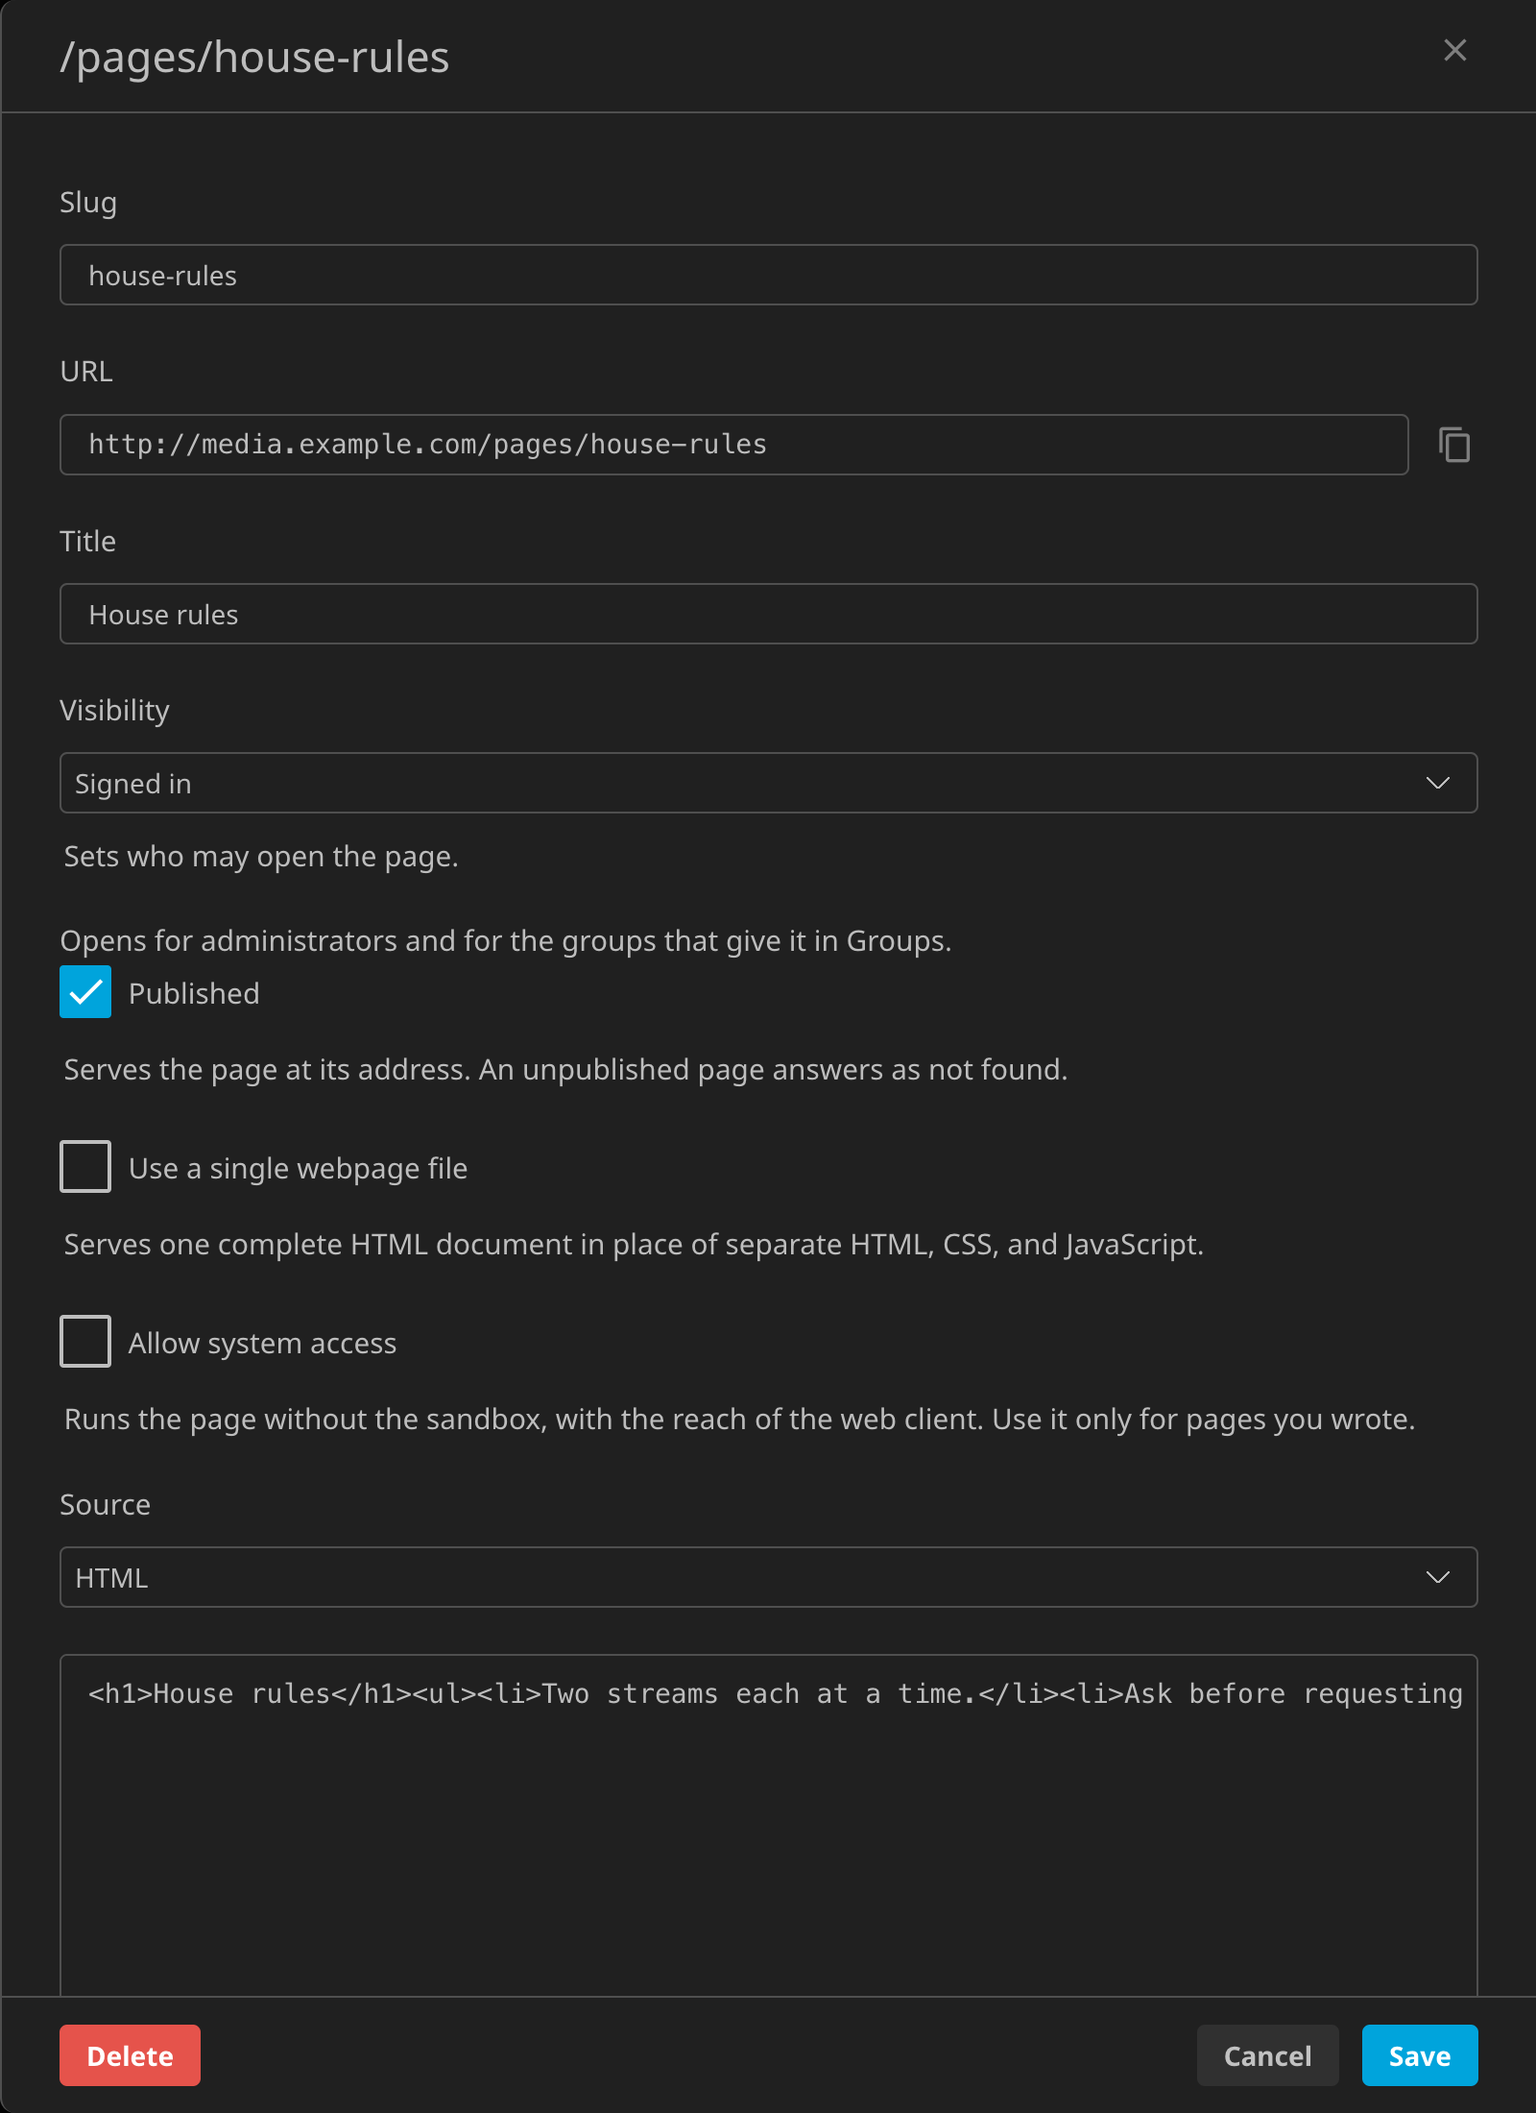
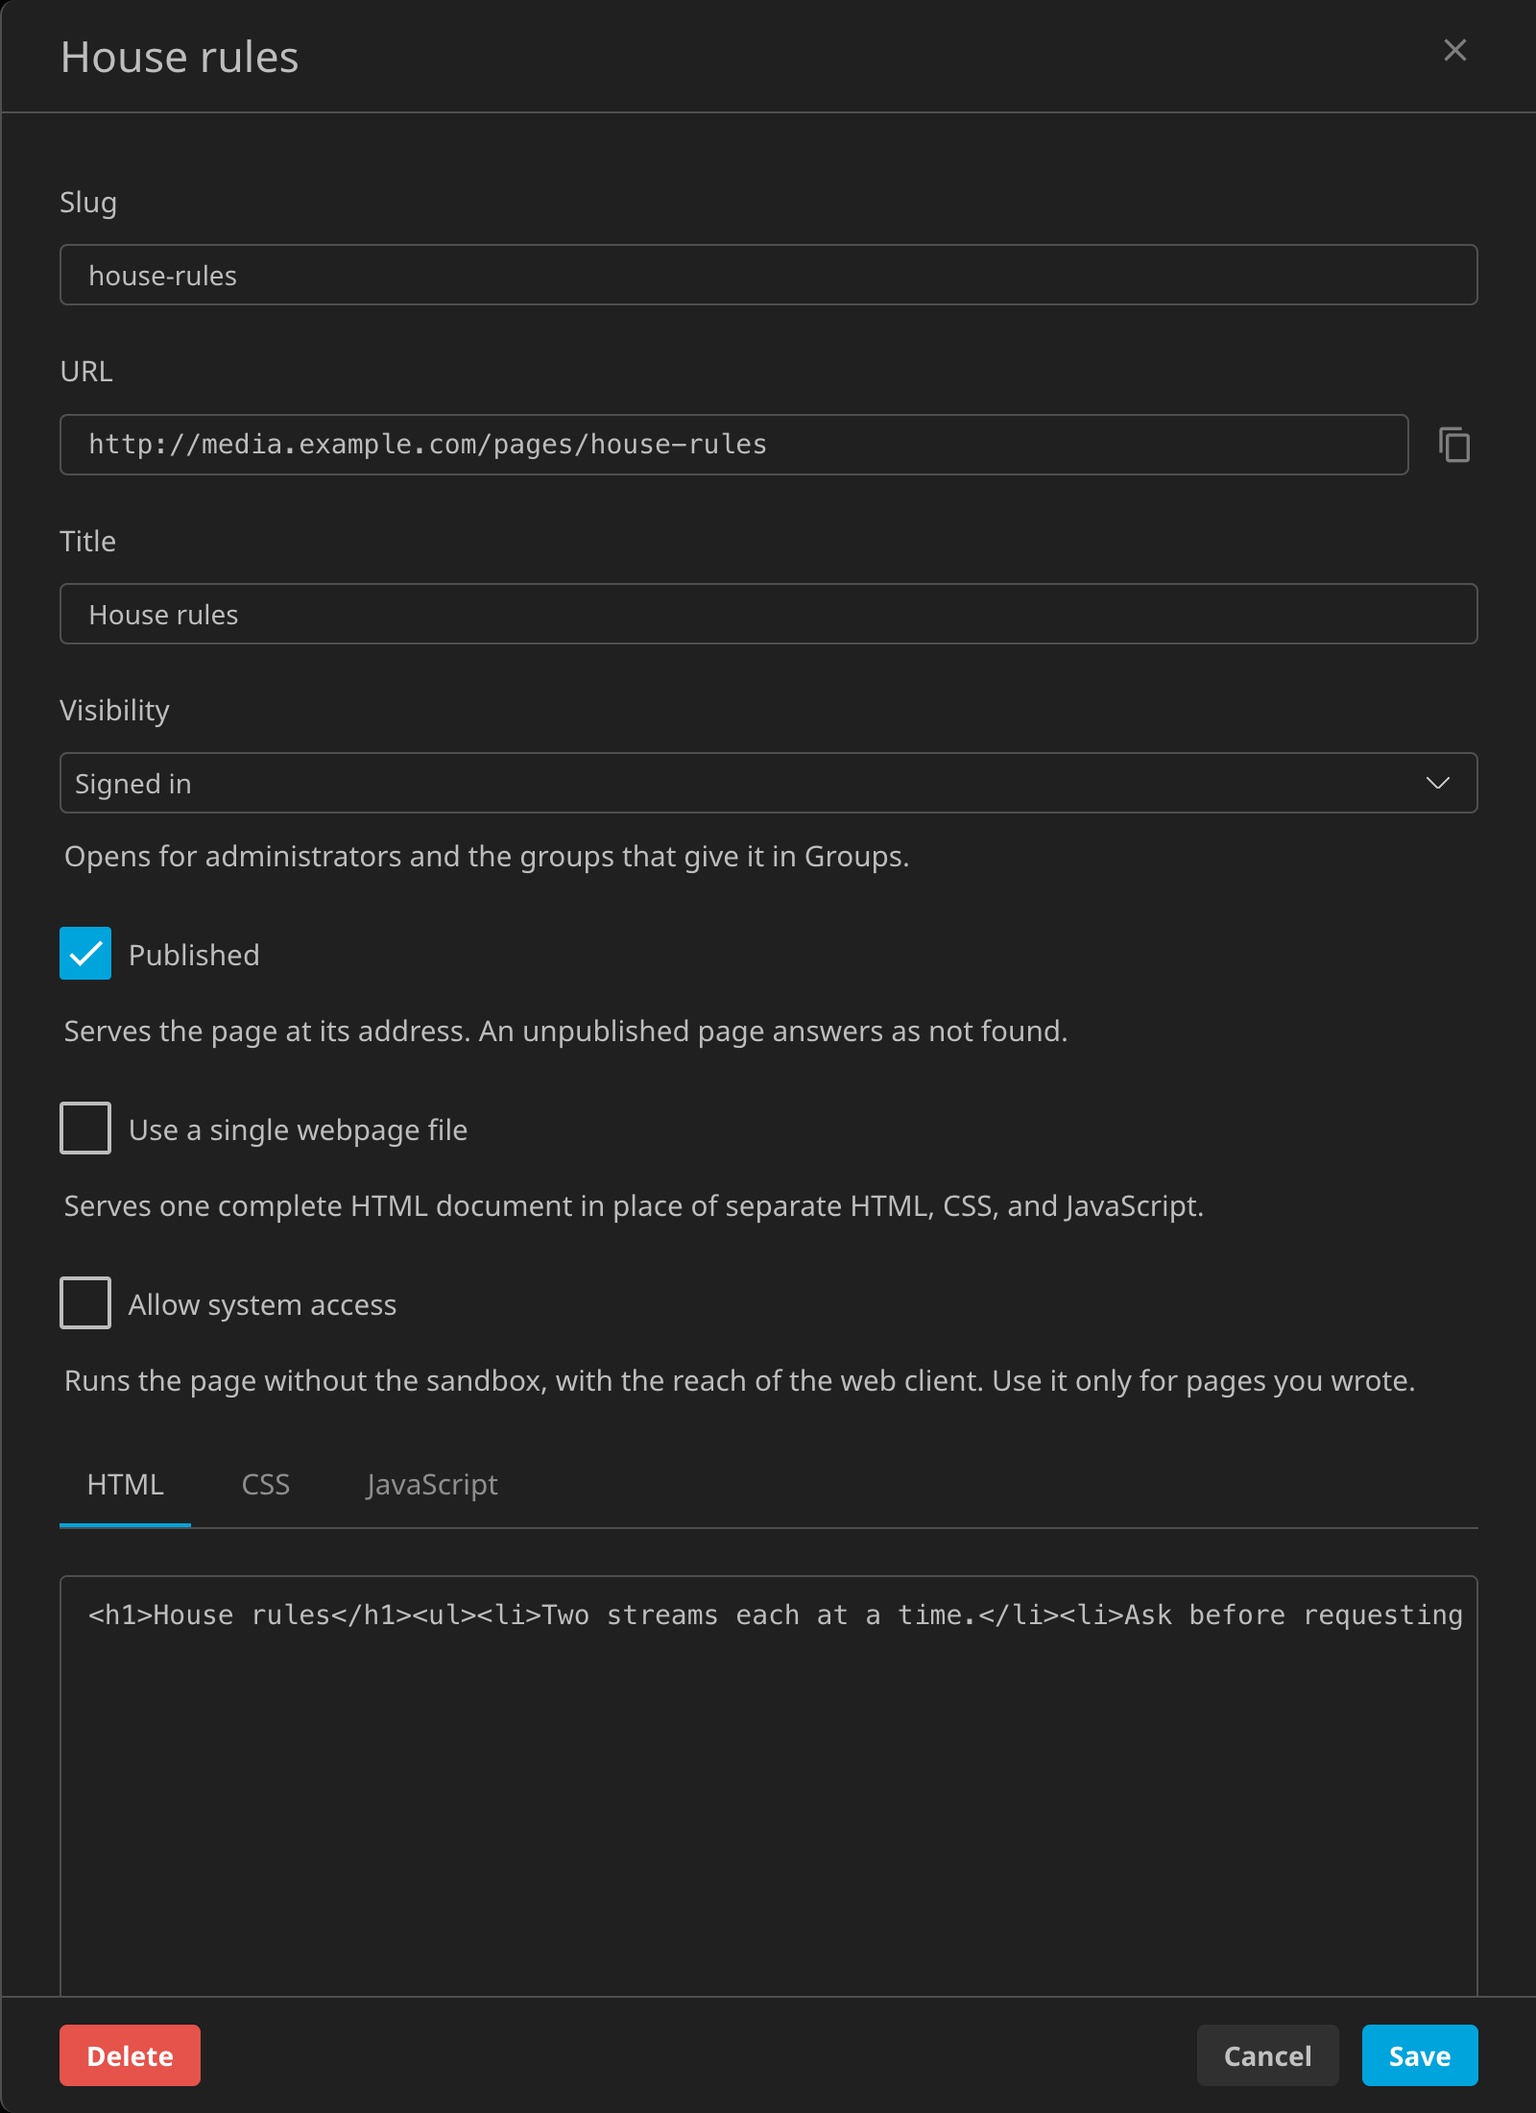
pages tabs, title first and source tabs

diff --git a/Jellyfin.Plugin.Necto/Web/necto_pages.js b/Jellyfin.Plugin.Necto/Web/necto_pages.js
@@ -191,7 +191,9 @@ export function pageItems(pages, t) {
         var tags = [{ label: tierLabel(p.Visibility, t), color: normalizeVisibility(p.Visibility) === 'Anonymous' ? 'green' : (normalizeVisibility(p.Visibility) === 'User' ? 'blue' : 'purple') }];
         if (p.Enabled === false) tags.push({ label: t.tr('PagesStatusUnpublished'), color: 'gray' });
         if (p.Unsandboxed || (p.ApiRoutes || []).length) tags.push({ label: t.tr('PagesTagSystemAccess'), color: 'orange' });
-        return { id: String(index), index: index, title: '/pages/' + (p.Slug || ''), secondary: p.Title || '', tags: tags };
+        var address = '/pages/' + (p.Slug || '');
+        var title = (p.Title || '').trim();
+        return { id: String(index), index: index, title: title || address, secondary: title ? address : '', tags: tags };
     });
 }
 
@@ -427,7 +429,7 @@ export function createPageEditor(page, shared) {
     var visibility = fieldRow('select', t.tr('PagesLabelVisibility'), { 'data-field': 'Visibility' }, t.tr('PagesVisibilityHelp'));
     tierOptions(visibility.control, t);
     visibility.control.value = normalizeVisibility(draft.Visibility);
-    var groupsNote = h('div', { class: 'stolon-info', 'data-role': 'groups-note', text: t.tr('PagesGroupsNote') });
+    var visibilityHelp = visibility.row.querySelector('.fieldDescription');
     var published = checkRow(t.tr('PagesLabelPublished'), t.tr('PagesPublishedHelp'), 'Enabled');
     published.control.checked = draft.Enabled !== false;
     var singleFile = checkRow(t.tr('PagesLabelSingleFile'), t.tr('PagesSingleFileHelp'), 'SingleFile');
@@ -458,16 +460,32 @@ export function createPageEditor(page, shared) {
         routes.element
     ]);
 
-    var source = fieldRow('select', t.tr('LabelSource'), { 'data-field': 'Source' });
-    [['html', 'HTML'], ['css', 'CSS'], ['js', 'JavaScript']].forEach(function (o) {
-        source.control.appendChild(h('option', { value: o[0], text: o[1] }));
-    });
     var code = h('textarea', { class: 'stolon-code', spellcheck: 'false', 'data-field': 'Code', 'aria-label': t.tr('PagesLabelPageSource'), rows: '16' });
     var hint = h('div', { class: 'fieldDescription', 'data-role': 'hint' });
     var codeRow = h('div', { class: 'inputContainer' }, [code, hint]);
+    // The source box moves into whichever of HTML, CSS, and JavaScript is open, and stands alone for a single file.
+    var source = nectoModule.createSubTabs({
+        label: t.tr('PagesLabelPageSource'),
+        tabs: [{ id: 'html', label: 'HTML' }, { id: 'css', label: 'CSS' }, { id: 'js', label: 'JavaScript' }],
+        onChange: function (id) {
+            flushSource();
+            currentPane = id;
+            placeSource();
+            loadSource();
+        }
+    });
+    source.element.setAttribute('data-role', 'source-tabs');
+    var codeHolder = h('div', { 'data-role': 'single-source' });
 
-    [slug.row, urlRow, title.row, visibility.row, groupsNote, published.row, singleFile.row, system.row, routesRow, source.row, codeRow]
+    [slug.row, urlRow, title.row, visibility.row, published.row, singleFile.row, system.row, routesRow, source.element, codeHolder]
         .forEach(function (node) { root.appendChild(node); });
+
+    // placeSource
+    // Puts the source box under the open source tab, or on its own for a single file.
+    function placeSource() {
+        var holder = single ? codeHolder : source.getPanel(currentPane);
+        if (holder && codeRow.parentNode !== holder) holder.appendChild(codeRow);
+    }
 
     // field
     // Names the page field the source box shows.
@@ -496,14 +514,16 @@ export function createPageEditor(page, shared) {
     }
 
     // reflect
-    // Shows the address, the groups note, the routes, and the source picker for the editor's choices.
+    // Shows the address, the Visibility help, the routes, and the source tabs for the editor's choices.
     function reflect() {
         var s = slugify(slug.control.value);
         url.setValue(s ? serverOrigin() + '/pages/' + s : '');
         setHidden(urlRow, !s);
-        setHidden(groupsNote, visibility.control.value !== 'User');
+        visibilityHelp.textContent = t.tr(visibility.control.value === 'User' ? 'PagesGroupsNote' : 'PagesVisibilityHelp');
         setHidden(routesRow, !system.control.checked);
-        setHidden(source.row, single);
+        setHidden(source.element, single);
+        setHidden(codeHolder, !single);
+        placeSource();
     }
 
     slug.control.addEventListener('input', reflect);
@@ -514,11 +534,6 @@ export function createPageEditor(page, shared) {
         single = singleFile.control.checked;
         loadSource();
         reflect();
-    });
-    source.control.addEventListener('change', function () {
-        flushSource();
-        currentPane = source.control.value;
-        loadSource();
     });
     loadSource();
     reflect();
@@ -540,7 +555,7 @@ export function createPageEditor(page, shared) {
             return out;
         },
         setStatus: function (message, isError) { shared.setStatus(status, message, !!isError); },
-        destroy: function () { routes.destroy(); url.destroy(); }
+        destroy: function () { routes.destroy(); url.destroy(); source.destroy(); }
     };
 }
 
@@ -596,7 +611,7 @@ export function createStoreEditor(store, count, shared) {
     custom.control.value = preset ? '' : days;
     var notify = checkRow(t.tr('PagesLabelNotifyAdmins'), t.tr('PagesNotifyHelp'), 'NotifyOnWrite');
     notify.control.checked = !!draft.NotifyOnWrite;
-    var meter = nectoModule.createUsageMeter({ label: t.tr('PagesCardRecords'), usedText: t.tr('PagesUsageMeter') });
+    var meter = nectoModule.createUsageMeter({ label: t.tr('LabelRecords'), usedText: t.tr('PagesUsageMeter') });
     var meterRow = h('div', { class: 'inputContainer', 'data-role': 'usage' }, [meter.element]);
 
     [name.row, urlRow, enabled.row, read.row, scope.row, write.row, anonWarn, scopeWarn, editOwn.row, limit.row, retention.row, custom.row, notify.row, meterRow]
@@ -853,7 +868,7 @@ export default function (view) {
         var c = storeCounts(settings.Stores, counts);
         shared.renderCards(panel.querySelector('[data-role="store-counts"]'), [
             { count: c.stores, label: t.tr('PagesTabStores'), color: 'blue' },
-            { count: c.records, label: t.tr('PagesCardRecords'), color: 'green' },
+            { count: c.records, label: t.tr('LabelRecords'), color: 'green' },
             { count: c.open, label: t.tr('PagesCardOpenToWrites'), color: c.open > 0 ? 'orange' : 'gray' }
         ]);
         var items = storeItems(settings.Stores, counts, t);
@@ -883,7 +898,7 @@ export default function (view) {
         var original = isNew ? newPage() : settings.Pages[index];
         var editor = createPageEditor(original, shared);
         nectoModule.openEditorSidecar({
-            title: isNew ? t.tr('PagesTitleNewPage') : '/pages/' + (original.Slug || ''),
+            title: isNew ? t.tr('PagesTitleNewPage') : ((original.Title || '').trim() || '/pages/' + (original.Slug || '')),
             body: editor.element,
             page: page,
             isNew: isNew,
@@ -1067,14 +1082,12 @@ export default function (view) {
                 h('span', { class: 'material-icons', 'aria-hidden': 'true', text: 'add' }), h('span', { text: t.tr('PagesButtonAddPage') })
             ]);
             addPage.addEventListener('click', function () { openPage(-1); });
-            [pagesIntro, h('div', { class: 'stolon-cards', 'data-role': 'page-counts' }), h('div', { 'data-role': 'page-list' }), h('div', { class: 'stolon-card-list-actions' }, [addPage])]
+            [pagesIntro, h('div', { class: 'stolon-cards stolon-even', 'data-role': 'page-counts' }), h('div', { 'data-role': 'page-list' }), h('div', { class: 'stolon-card-list-actions' }, [addPage])]
                 .forEach(function (n) { panel.appendChild(n); });
             drawPages();
         } else if (tab.id === 'assets') {
             var assetsIntro = h('div', { class: 'fieldDescription' });
             fillWithCode(assetsIntro, t.tr('PagesAssetsIntro'), ['asset/logo.png']);
-            var assetsInfo = h('div', { class: 'stolon-info' });
-            fillWithCode(assetsInfo, t.tr('PagesAssetsVisibilityInfo'), ['/pages/asset/{name}']);
             var refused = '';
             picker = nectoModule.createFilePicker({
                 accept: 'image/*',
@@ -1094,17 +1107,16 @@ export default function (view) {
                     setTimeout(function () { refused = ''; }, 0);
                 }
             });
-            [assetsIntro, assetsInfo, h('div', { class: 'stolon-cards', 'data-role': 'asset-counts' }), picker.element, h('div', { class: 'stolon-asset-list', 'data-role': 'asset-list' })]
+            [assetsIntro, h('div', { class: 'stolon-cards stolon-even', 'data-role': 'asset-counts' }), h('div', { class: 'stolon-asset-list', 'data-role': 'asset-list' }), picker.element]
                 .forEach(function (n) { panel.appendChild(n); });
             drawAssets();
         } else if (tab.id === 'stores') {
-            var storesIntro = h('div', { class: 'fieldDescription' });
-            fillWithCode(storesIntro, t.tr('PagesStoresIntro'), ["pageStore.read('name')", "pageStore.write('name', data)"]);
+            var storesIntro = h('div', { class: 'fieldDescription', text: t.tr('PagesStoresIntro') });
             var addStore = h('button', { is: 'emby-button', type: 'button', class: 'raised stolon-button stolon-primary', 'data-action': 'add-store' }, [
                 h('span', { class: 'material-icons', 'aria-hidden': 'true', text: 'add' }), h('span', { text: t.tr('PagesButtonAddStore') })
             ]);
             addStore.addEventListener('click', function () { openStore(-1); });
-            [storesIntro, h('div', { class: 'stolon-cards', 'data-role': 'store-counts' }), h('div', { 'data-role': 'store-list' }), h('div', { class: 'stolon-card-list-actions' }, [addStore])]
+            [storesIntro, h('div', { class: 'stolon-cards stolon-even', 'data-role': 'store-counts' }), h('div', { 'data-role': 'store-list' }), h('div', { class: 'stolon-card-list-actions' }, [addStore])]
                 .forEach(function (n) { panel.appendChild(n); });
             drawStores();
         }

diff --git a/Jellyfin.Plugin.Necto/Web/necto_pages.html b/Jellyfin.Plugin.Necto/Web/necto_pages.html
@@ -1,5 +1,5 @@
 <!-- necto_pages.html -->
-<!-- The Pages tool. It holds the pages, their images, and the stores they write to, each opening in a sidecar. -->
+<!-- The Pages tool. It holds the pages, their images, and the stores they write to, each tab with one help line and each record opening in a sidecar. -->
 
 <div id="NectoCustomPagesPage" data-role="page" class="page type-interior pluginConfigurationPage"
      data-require="emby-input,emby-button,emby-select,emby-checkbox"
@@ -7,7 +7,6 @@
     <div data-role="content">
         <div class="content-primary">
             <div class="verticalSection verticalSection-extrabottompadding">
-                <div class="fieldDescription" data-role="pages-intro" data-str="PagesIntro">Serves the pages you write at their own addresses. Who may open a signed in page is set on its groups.</div>
                 <div id="pagesStatus" class="stolon-status-text" role="status"></div>
 
                 <!-- Tabs -->

diff --git a/docs/Pages.md b/docs/Pages.md
@@ -14,7 +14,7 @@
 
 ## The Pages Tool
 
-**Pages** has three tabs: **Pages**, **Images**, and **Stores**. Each list opens a record in a sidecar, whose shelf holds **Delete**, **Cancel**, and **Save**. A save asks the server first whether it would take the change, so a refused save shows its reason, such as "Two pages use the slug rules.". The tool holds no settings, which are in **Settings > Pages**.
+**Pages** has three tabs: **Pages**, **Images**, and **Stores**, each with one line under it on what it holds. Each list opens a record in a sidecar, whose shelf holds **Delete**, **Cancel**, and **Save**. A save asks the server first whether it would take the change, so a refused save shows its reason, such as "Two pages use the slug rules.". The tool holds no settings, which are in **Settings > Pages**.
 
 | Pages | Pages on a phone |
 | :---: | :---: |
@@ -22,7 +22,7 @@
 
 ## Pages
 
-**Pages** counts the pages by tier and lists each by its address, with its title, its tier, and tags for **Unpublished** and **System access**. Select **Add page** for a new one.
+**Pages** counts the pages by tier and lists each by its title over its address, with its tier and tags for **Unpublished** and **System access**. A page with no title is listed by its address. Select **Add page** for a new one.
 
 ![Page editor](screenshots/Page%20Editor.png)
 
@@ -30,11 +30,11 @@ The page sidecar holds:
 
 * **Slug** sets the page's address. It keeps lower case letters, digits, dashes, and underscores. The **URL** under it shows the full address with a copy button.
 * **Title** sets the document title.
-* **Visibility** sets who may open the page. See [Who May Open a Page](#who-may-open-a-page).
+* **Visibility** sets who may open the page. For **Signed in** its line says the page opens for administrators and the groups that give it. See [Who May Open a Page](#who-may-open-a-page).
 * **Published** serves the page at its address. An unpublished page answers as not found.
 * **Use a single webpage file** serves one complete HTML document as written, in place of separate HTML, CSS, and JavaScript.
 * **Allow system access** runs the page without the sandbox. See [System Access](#system-access).
-* **Source** picks the HTML, CSS, or JavaScript pane the box below edits. The box holds the whole document while **Use a single webpage file** is on.
+* **HTML**, **CSS**, and **JavaScript** are tabs over the source box, each showing its own part of the page. The tabs hide and the box holds the whole document while **Use a single webpage file** is on.
 
 The slugs `asset`, `store`, `stores`, and `configuration` are kept for the pages' own routes.
 
@@ -59,7 +59,7 @@ A group gives pages in **Groups > Pages**, with **Open every page** or **Pages m
 
 ## Images
 
-**Images** hosts images for the pages. Drop or select images to upload them, up to 5 MB each. An upload with the name of an image already there replaces it and keeps its tier. The cards count **Images**, **Other** files, and their total **Size**.
+**Images** hosts images for the pages. The list of images comes first, and the drop zone under it takes new ones. Drop or select images to upload them, up to 5 MB each. An upload with the name of an image already there replaces it and keeps its tier. The cards count **Images**, **Other** files, and their total **Size**.
 
 ![Pages images](screenshots/Pages%20Images.png)
 
